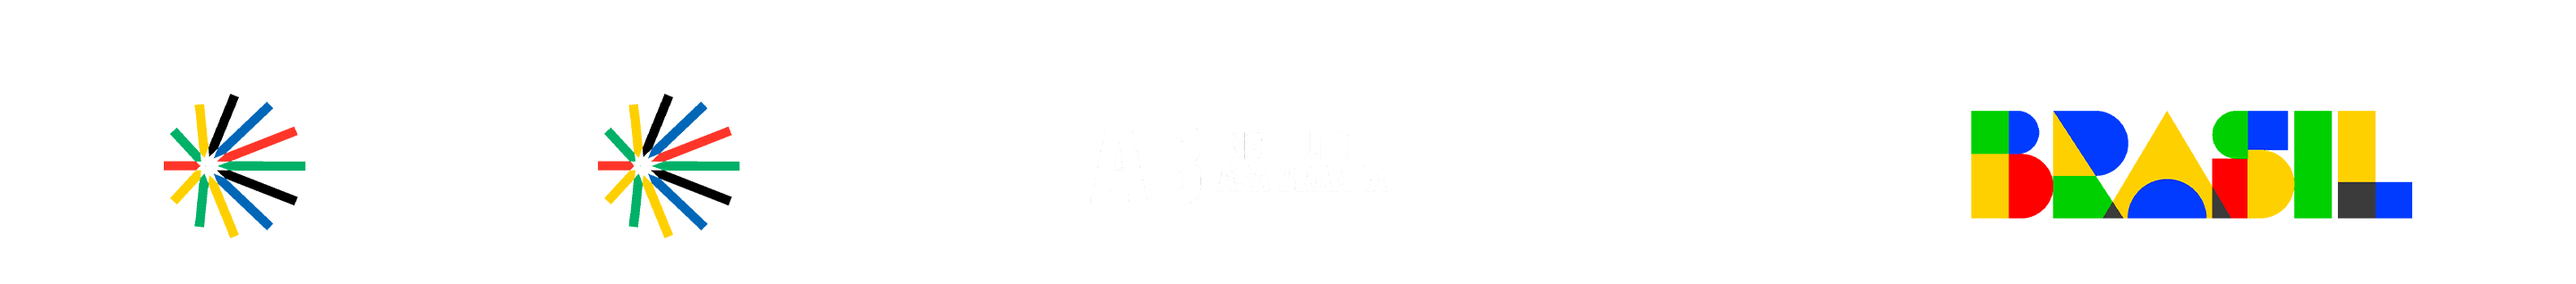
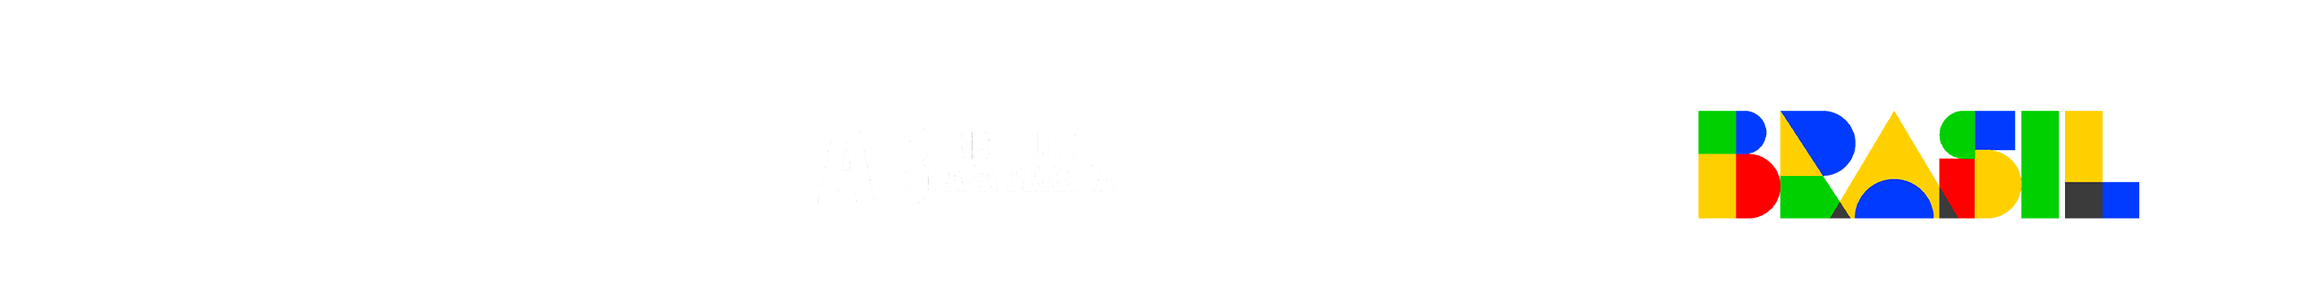
ok

Changed region(s): [[0.7148, 0.3679, 0.9635, 0.7925], [0.2176, 0.3396, 0.3108, 0.8208], [0.0622, 0.3396, 0.1243, 0.8208]]

diff --git a/index.html b/index.html
@@ -471,13 +471,17 @@
 
         <img src="imagens/marcas2.png" alt="Marca 2" class="footer-banner mobile-only" />
         <img src="imagens/marcas3.png" alt="Marca 3" class="footer-banner mobile-only" />
+
+        <img src="imagens/igd.png" alt="Marca 3" class="footer-banner mobile-only" />
+        <img src="imagens/logo_recife_mix_definitiva.png" alt="Marca 3" class="footer-banner mobile-only" />
   
         <!-- Imagem apenas para DESKTOP -->
         <img src="imagens/RODAPE.png" alt="Rodapé Desktop" class="footer-banner desktop-only" />
   
         <!-- Logo adicional (visível apenas no desktop) -->
-        <img src="imagens/marca_recortada.png" alt="Logo da marca" class="footer-logo-extra desktop-only" />
-  
+       
+        <img src="imagens/selos carbono (2).png" alt="Logo da marca" class="footer-logo-extra desktop-only" />
+   <img src="imagens/logo_recife_mix_definitiva.png" alt="Logo da marca" class="footer-logo-extra1 desktop-only" />
       </div>
  
       <div class="text-center small mt-3 copyright-text">

diff --git a/style.css b/style.css
@@ -640,6 +640,12 @@ html {
   width: auto;
 }
 
+.footer-logo-extra1 {
+  max-height: 170px;
+  height: auto;
+  width: auto;
+  padding: 0;
+}
 /* Esconde elementos específicos por padrão */
 .mobile-only {
   display: none;
